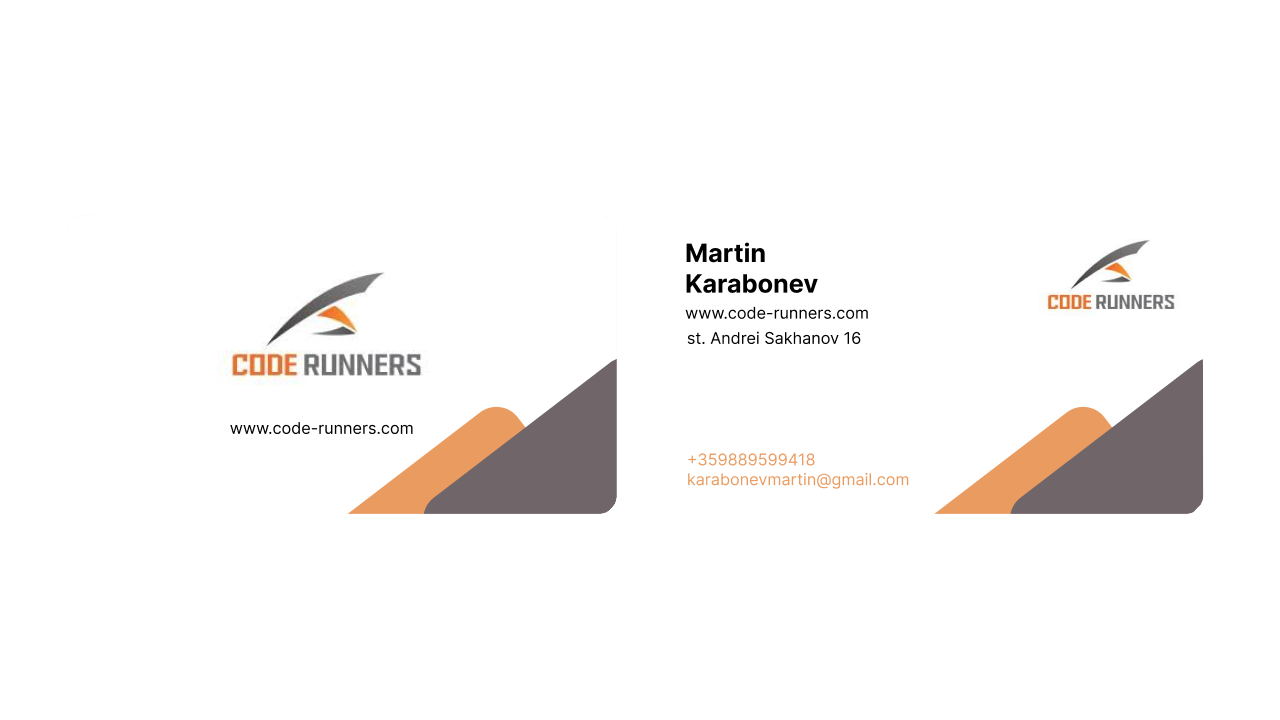
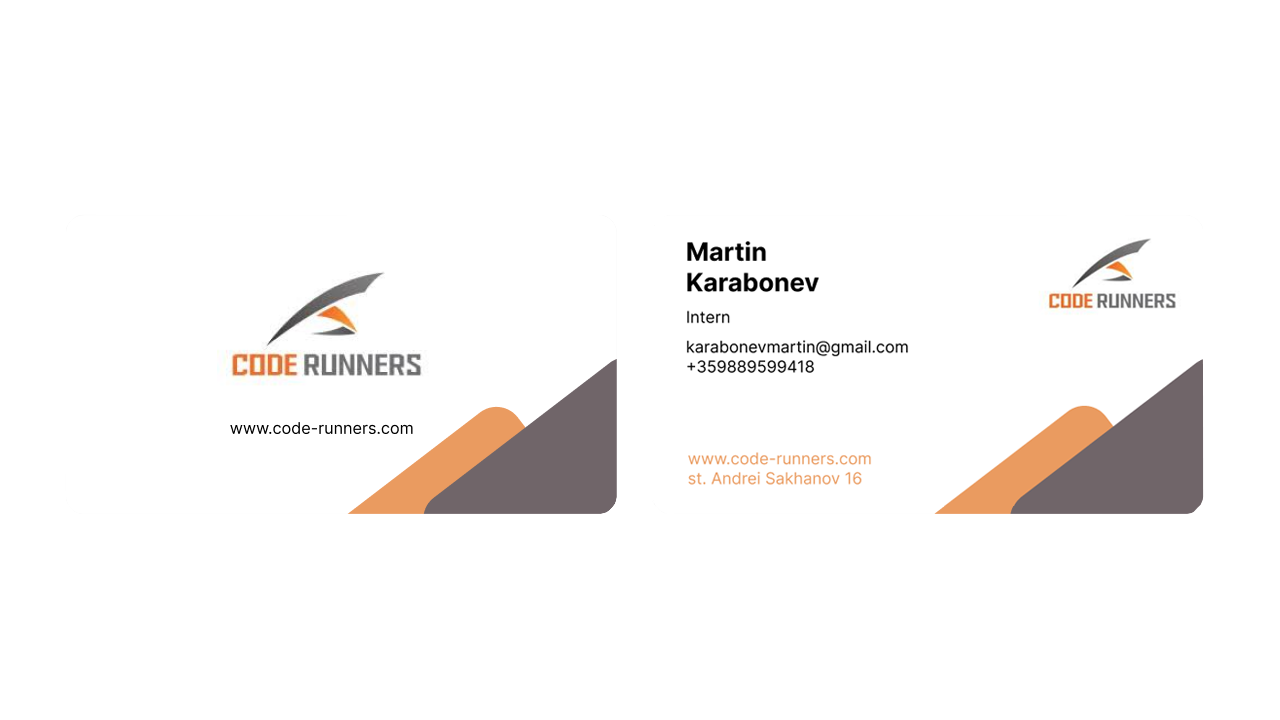
[UPDATE] Card Generation UI

Changed region(s): [[0.5312, 0.3361, 0.7188, 0.5194], [0.5312, 0.6111, 0.7188, 0.6722], [0.8125, 0.3667, 0.9375, 0.4278]]

diff --git a/App/src/components/CardGenerator.tsx b/App/src/components/CardGenerator.tsx
@@ -15,6 +15,7 @@ export const CardGenerator = () => {
     const [mobileNumber, setMobileNumber] = useState('');
     const [website, setWebsite] = useState('');
     const [email, setEmail] = useState('');
+    const [position, setPosition] = useState('');
 
     const [generatedContent, setGeneratedContent] = useState<JSX.Element | null>(null);
   
@@ -45,6 +46,10 @@ export const CardGenerator = () => {
     const handleEmailChange = (e: ChangeEvent<HTMLInputElement>) => {
         setEmail(e.target.value);
     };
+
+    const handlePositionChange = (e: ChangeEvent<HTMLInputElement>) => {
+        setPosition(e.target.value);
+    };
   
     const handleGenerate = () => {
         const generatedElements = ( 
@@ -58,10 +63,11 @@ export const CardGenerator = () => {
             
             <div className={styles.back}>
                 <div className={styles.personalinfo}>
-                    <p>{firstName} {lastName}</p>
-                    <p>{mobileNumber}</p>
-                    <p>{website}, {email}</p>
-                    <p>{address}</p>
+                    <p className={styles.names}>{firstName} {lastName}</p>
+                    <p className={styles.position}>{position}</p>
+                    <p className={styles.position}>{mobileNumber}</p>
+                    <p className={styles.position}>{email}</p>
+                    <p className={styles.company}>{companyName} | {address}</p>
                 </div>
             </div>
             </>
@@ -78,6 +84,7 @@ export const CardGenerator = () => {
                 <div className="container">
                     <input type="email" placeholder="First name" value={firstName} onChange={handleFirstNameChange}/>
                     <input type="email" placeholder="Last name" value={lastName} onChange={handleLastNameChange}/>
+                    <input type="email" placeholder="Position" value={position} onChange={handlePositionChange}/>
                     <input type="email" placeholder="Mobile phone" value={mobileNumber} onChange={handleMobileNumberChange}/>
                     <input type="email" placeholder="Email address" value={email} onChange={handleEmailChange}/>
                     <input type="email" placeholder="Website" value={website} onChange={handleWebsiteChange}/>

diff --git a/App/src/styles/Card.module.css b/App/src/styles/Card.module.css
@@ -2,41 +2,44 @@
   box-shadow: 0 14px 28px rgba(0, 0, 0, 0.25), 0 10px 10px rgba(0, 0, 0, 0.22);
   display: grid;
   font-family: "Trebuchet MS", sans-serif;
-  height: 200px;
-  margin: 20px auto;
-  width: 350px;
+  height: 400px;
+  width: 700px;
   grid-template-columns: repeat(12, 1fr);
   grid-template-rows: repeat(4, 1fr);
-}
-
-.front .personalintro {
-  background: black;
-  color: white;
-  display: flex;
-  flex-direction: column;
-  grid-column: 4 / span 6;
-  grid-row: 2 / span 2;
-  justify-content: center;
-  text-align: center;
-  z-index: 3;
 }
 
 .back {
   box-shadow: 0 14px 28px rgba(0, 0, 0, 0.25), 0 10px 10px rgba(0, 0, 0, 0.22);
   display: grid;
-  font-family: "Trebuchet MS", sans-serif;
-  height: 200px;
-  margin: 20px auto;
-  width: 350px;
-  grid-template-columns: repeat(12, 1fr);
-  grid-template-rows: repeat(12, 1fr);
+  height: 400px;
+  width: 700px;
 }
 
-.back .personalinfo {
+.names{
+  font-family: 'Poppins', sans-serif;
+  font-size: 36px;
+  font-weight: bold;
   display: flex;
-  flex-direction: column;
   text-align: left;
-  grid-column: 2 / span 6;
-  grid-row: 5 / span 6;
-  font-size: 10px;
+  margin-top: 25px;
+  margin-left: 25px;
 }
+
+.position{
+  font-family: 'Poppins', sans-serif;
+  font-size: 24px;
+  display: flex;
+  text-align: left;
+  margin-left: 25px;
+  margin-top: 0px;
+}
+
+.company{
+  font-family: 'Poppins', sans-serif;
+  font-size: 18px;
+  display: flex;
+  text-align: left;
+  margin-left: 25px;
+  margin-top: 115px;
+}
+

diff --git a/App/src/components/Navbar.tsx b/App/src/components/Navbar.tsx
@@ -10,7 +10,10 @@ export const Navbar = ({ isLoggedIn }: { isLoggedIn: boolean }) => {
             {isLoggedIn ? null : <Link to="/signup">Sign Up</Link>}
             <Link to="/generate">Generate a card</Link>
             <Link to="/auth">Authenticate</Link> 
+<<<<<<< Updated upstream
             {isLoggedIn ? <Link to="/settings">Settings</Link> : null}
+=======
+>>>>>>> Stashed changes
             {isLoggedIn ? <Link to="/profile">Profile</Link> : null}
             {isLoggedIn ? <Link to="/preview">Card Preview</Link> : null} 
         </nav>

diff --git a/App/src/styles/Home.css b/App/src/styles/Home.css
@@ -8,14 +8,14 @@ h2 {
     padding-top: 50px;
     padding-left: 15%;
     padding-right: 15%;
-    color: #FF9A5C;
+    color: rgb(29, 27, 27);
     font-family: 'Poppins', sans-serif;
 }
 
 img {
-    padding-top: 35px;
+    padding-top: 20px;
     display: block;
-    max-width: 50%;
-    max-height: 50%;
+    max-width: 60%;
+    max-height: 60%;
     margin: auto;
 }

diff --git a/App/src/components/Home.tsx b/App/src/components/Home.tsx
@@ -3,7 +3,7 @@ import '../styles/Main.css'
 import '../styles/Home.css'
 import image from '../assets/image.png'
 export const Home = () => {
-    const isLoggedIn = false;
+    const isLoggedIn = true;
 
     return (
         <>
